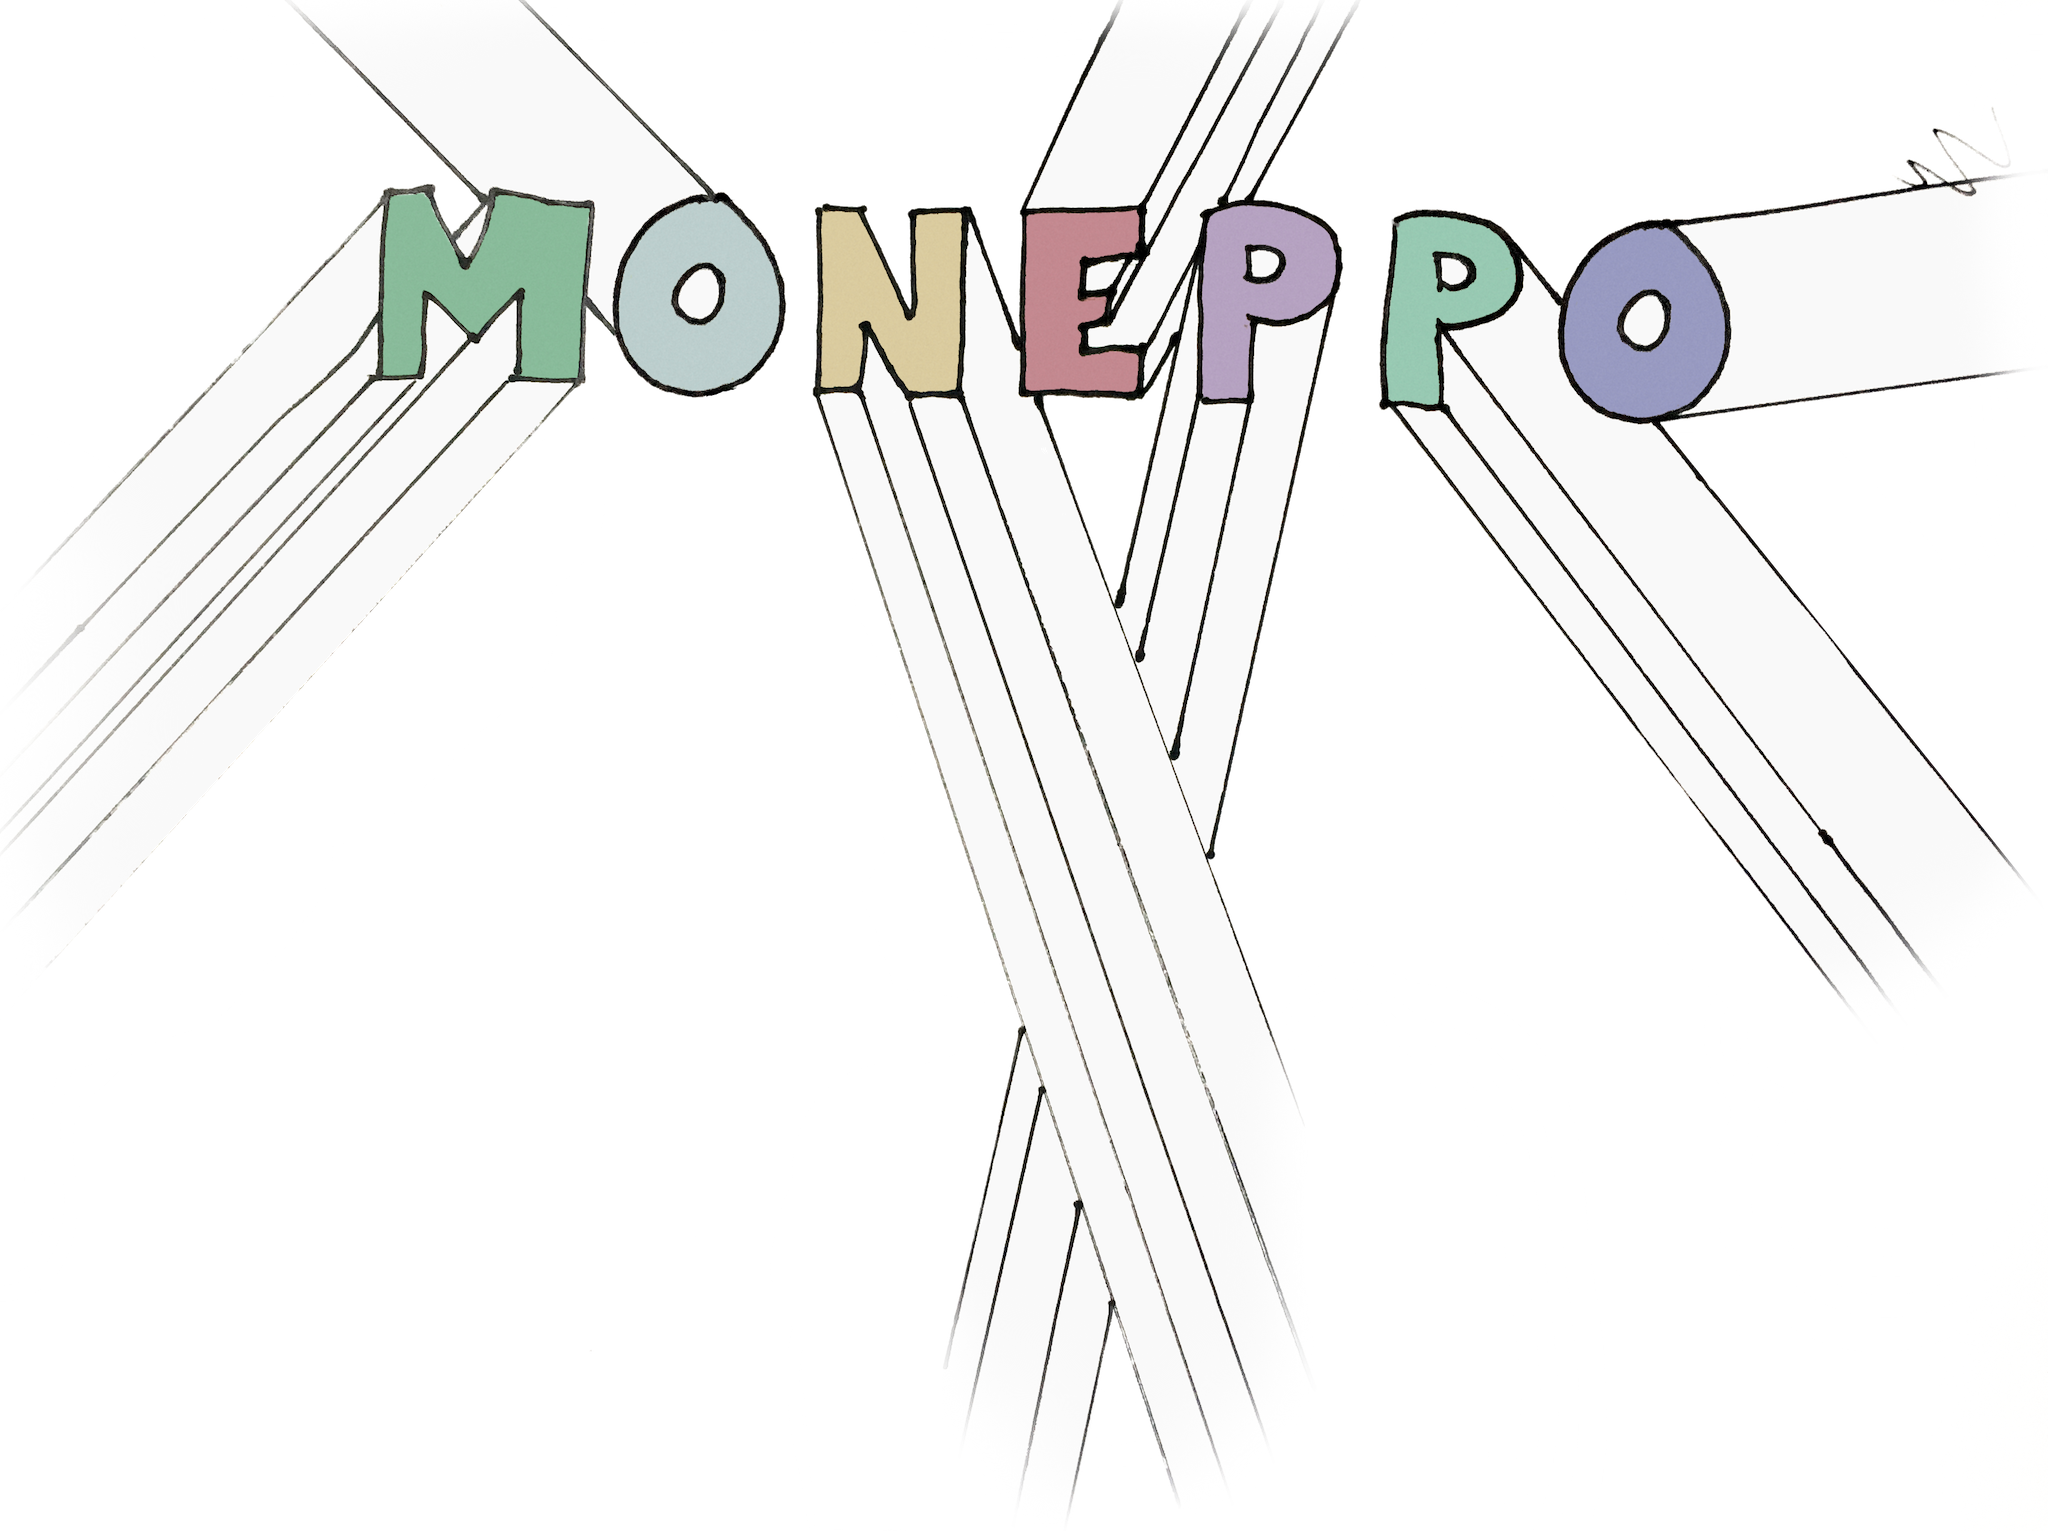
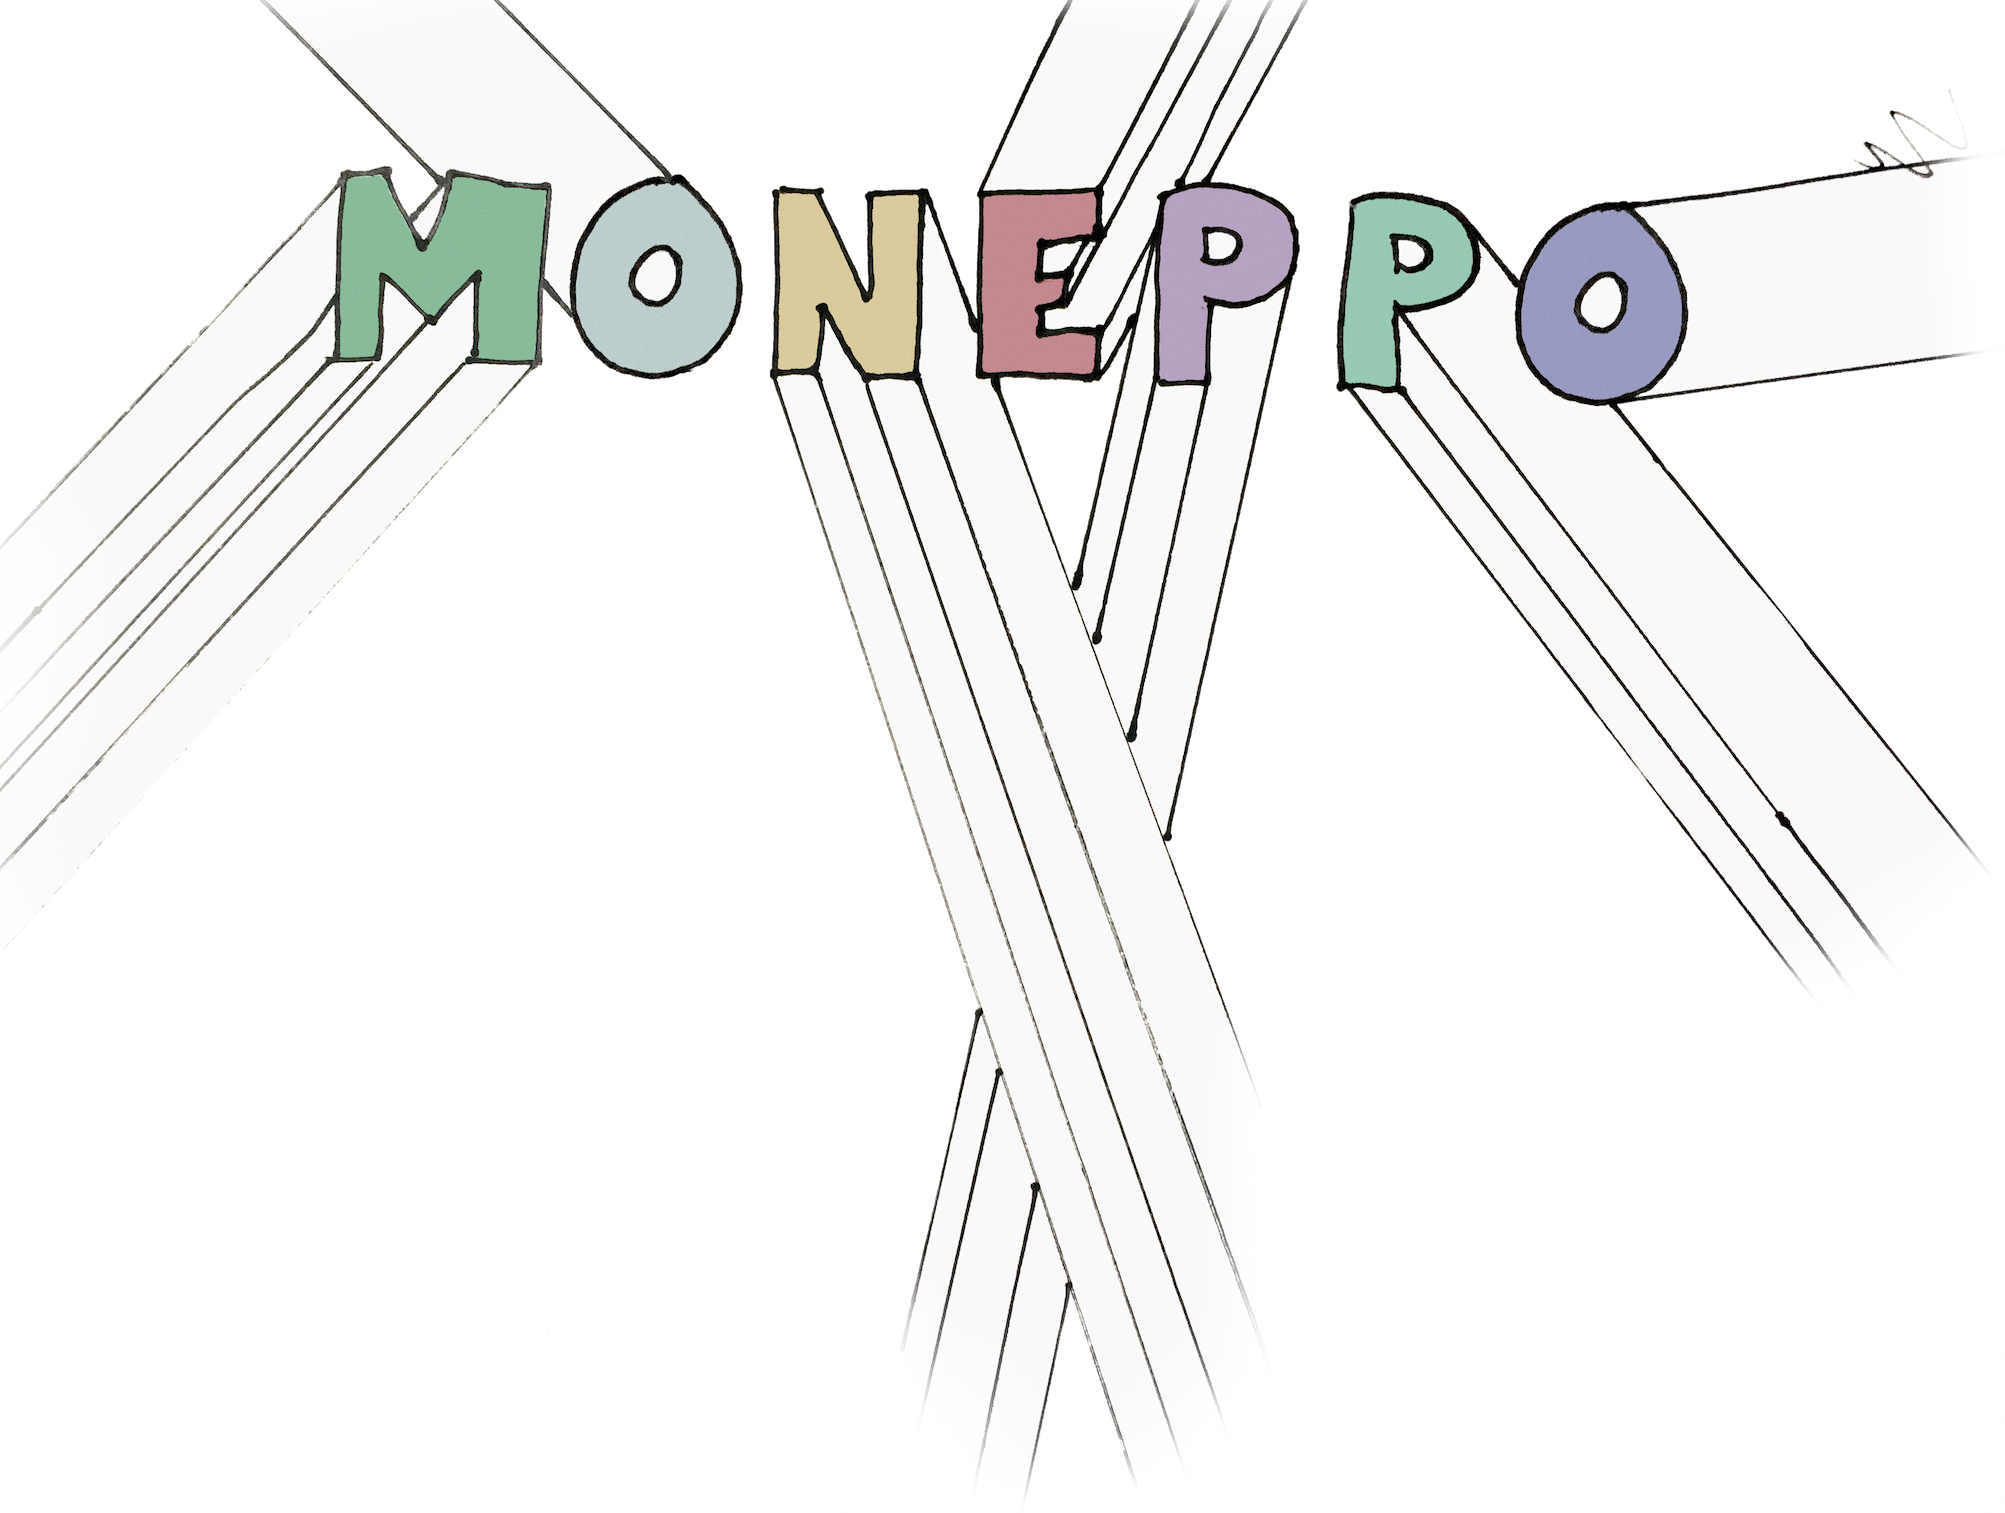
Some posts! Finally

diff --git a/_sass/_main.scss b/_sass/_main.scss
@@ -316,7 +316,7 @@ h1 {
 
 #cover {
 	width: 100%;
-	height: 160px;
+	height: 220px;
 }
 
 #cover:after {

diff --git a/_posts/2015-12-15-imagination-codes.md b/_posts/2015-12-15-imagination-codes.md
@@ -1,0 +1,36 @@
+---
+layout: post
+categories: posts, projects
+title: Imagination Codes
+tags: [concept, itp, education, half baked]
+date-string: DECEMBER 15, 2015
+---
+
+Imagination Codes was a series of concepts and experiments around teaching
+children about the creative arts, design thinking and leading them to be 
+creative problem solvers using modern tools. We developed or conceptualized
+learning modules around many of the creative arts, such as poetry, movement & 
+dance, music, design thinking, communication and storytelling. 
+
+The goal was to provide modules in two versions: offline for collaborative 
+classrooms and online for self guided learning as well as classroom or group 
+activities.
+
+I worked with Amelia Winger-Bearskin to develop a prototype system for building 
+online modules, targeted at teachers with less technical experience. By 
+collecting a simple set of files together including text written in markdown, 
+code snippets, and videos, teachers and developers alike can make online 
+educational modules quickly and easily. The code, or what's left of it after the
+exploration, is up on my github site. If you squint it appears a lot like Jekyll 
+but with a more fixed structure to the end website that's generated.
+
+![concept of UI for Imagination Codes](images/2015-12-15/imcodes-layout1.png)
+![concept of UI for Imagination Codes](images/2015-12-15/imcodes-layout2.png)
+
+One other fun part of Imagination Codes was developing and testing a generative 
+poetry module that used color-coded words to build simple algorithms for 
+creating sentences and poems. We showed this off at one of the ITP shows and
+had a lot of fun generating surprisingly coherent algorithmic poetry.
+
+![algorthmic poetry booth](images/2015-12-15/imcodes-poetry1.png)
+![algorthmic poetry booth](images/2015-12-15/imcodes-poetry2.png)

diff --git a/_posts/2010-06-01-vitus.md b/_posts/2010-06-01-vitus.md
@@ -1,0 +1,25 @@
+---
+layout: post
+categories: posts, projects
+title: Vitus Music Controller Suite
+tags: [project, concept, music, electronics]
+date-string: JUNE 1, 2010
+---
+
+The Vitus project was an entry into the [Create Digital Music / Digitopia “Dreams” Competition](http://createdigitalmusic.com/2010/06/dreams-of-a-musical-future-digitopia-winners-wondrous-creations-one-will-be-real/).
+
+I got a special mention in the “More Terrific Ideas” category – not a bad place 
+considering the the crazy cool stuff that was entered at the time. Many of my
+past and future electronics projects orbited around this concept, and it sparked
+my interest in RF, microcontrollers, etc. 
+
+In the years since this competition I've seen a lot of products come out that 
+have elements like each of the pieces here, but it's taken a while to get to
+fully wireless audio. Had I tried to pull this off a decade ago, I think I 
+would have gotten seriously frustrated.
+
+![vitus page 1](images/2010-06-01/vitus.details.1.jpg)
+![vitus page 2](images/2010-06-01/vitus.details.2.jpg)
+![vitus page 3](images/2010-06-01/vitus.details.3.jpg)
+
+
